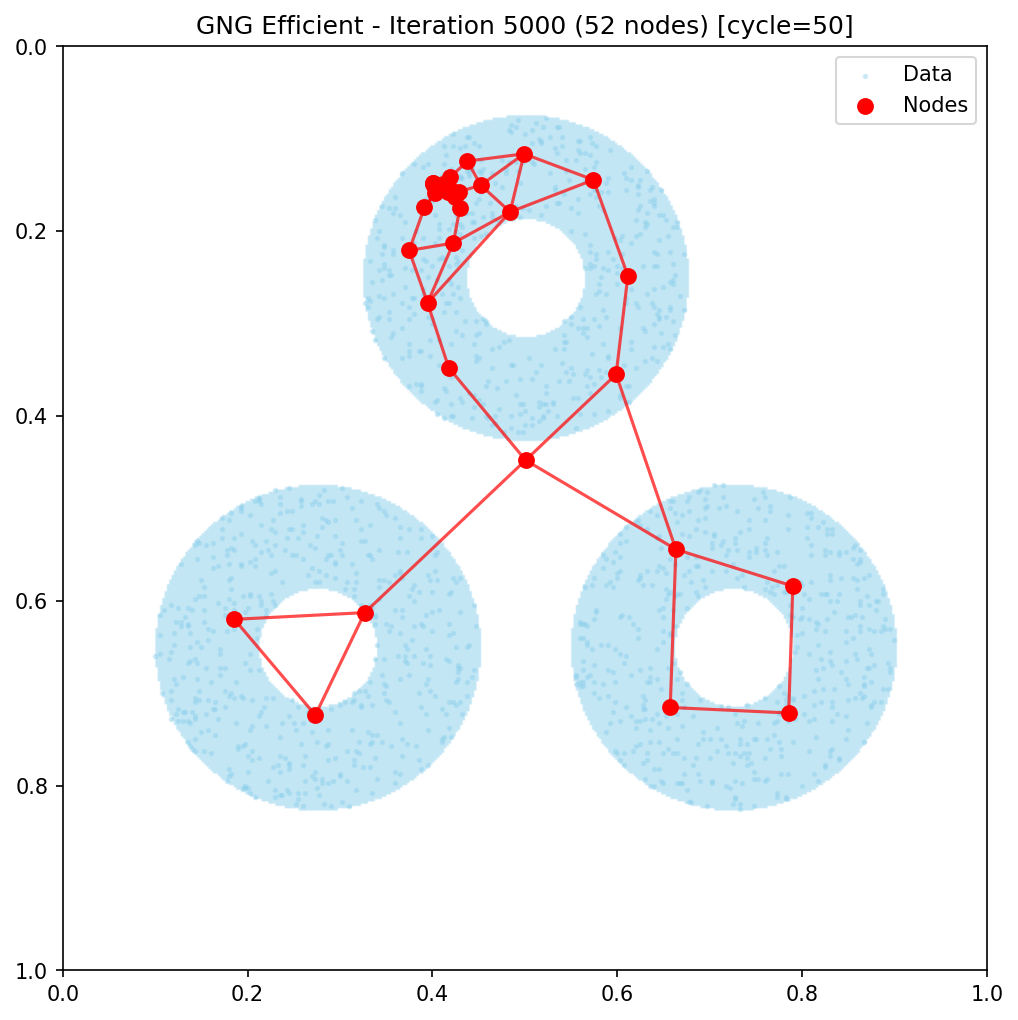
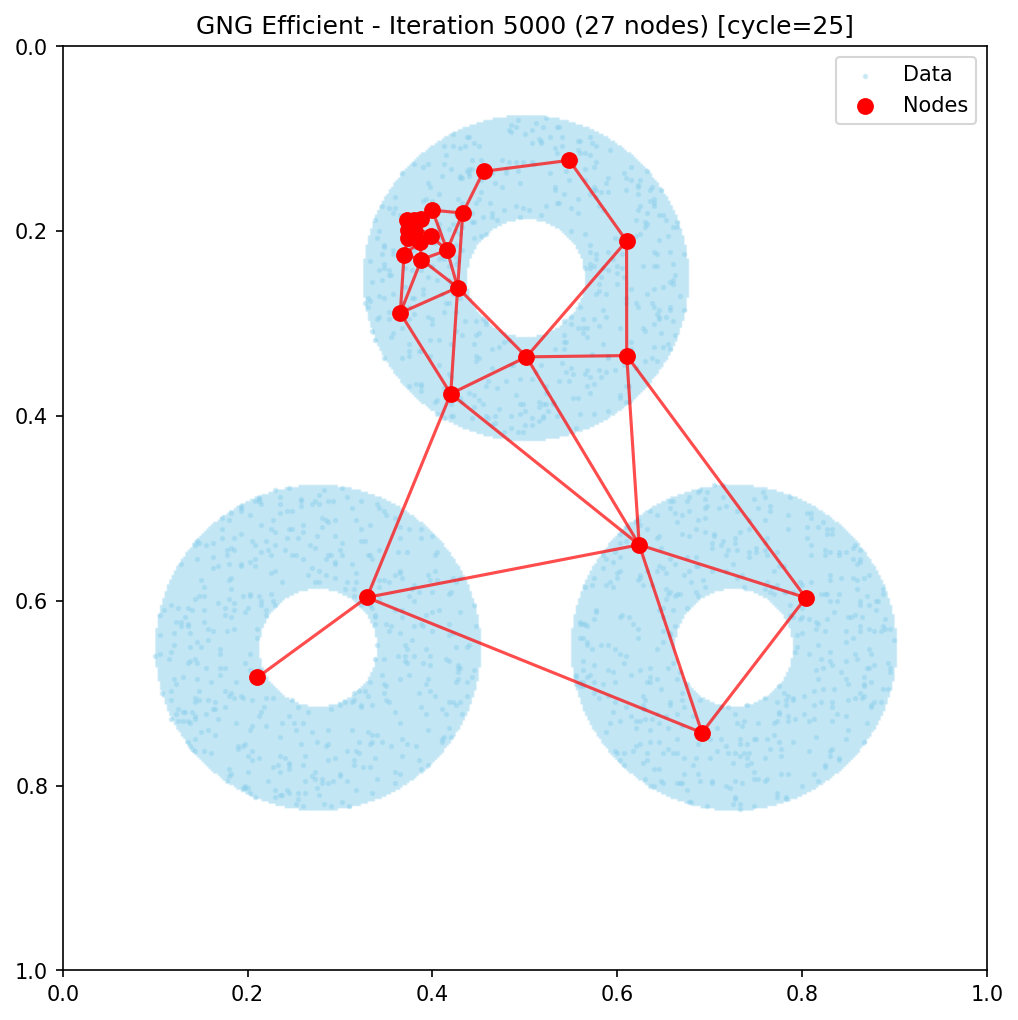
GNG Efficient: βパラメータを論文準拠に修正（重大バグ修正）
【問題】
標準GNGのβ（減衰率、例: 0.005）と論文のβ（減衰係数、例: 0.9995）
の解釈が異なる。論文の式 E = β^(λ-s) * E + v に対して、
β=0.005を使うと β^100 ≈ 0 となりエラーが即座に消滅していた。

【修正】
- テストファイルを論文Table 2のパラメータに更新
  - beta: 0.005 → 0.9995
  - lambda: 100 → 200
  - eps_b: 0.08 → 0.05
  - eps_n: 0.008 → 0.0006
  - alpha: 0.5 → 0.95
  - max_age: 100 → 200
- trackingテストはbeta=0.99（高速追従用）
- model.pyのdocstringにβの解釈の違いを明記

https://claude.ai/code/session_01QdeRWAD6iCgVwVf2t6sSNE

diff --git a/experiments/3d_pointcloud/test_gng_efficient_floor_wall.py b/experiments/3d_pointcloud/test_gng_efficient_floor_wall.py
@@ -117,15 +117,16 @@ def run_experiment(
     points = sample_floor_and_wall(n_samples=n_samples, seed=seed)
     print(f"Sampled {len(points)} points")
 
-    # Setup GNG Efficient with parameters tuned for 3D
+    # Setup GNG Efficient with paper's Table 2 parameters (Fišer et al., 2013)
+    # Note: Paper's beta is a decay FACTOR (close to 1), not a decay RATE (close to 0)
     params = GNGEfficientParams(
         max_nodes=150,
-        lambda_=100,
-        eps_b=0.1,
-        eps_n=0.01,
-        alpha=0.5,
-        beta=0.005,
-        max_age=100,
+        lambda_=200,      # Paper default
+        eps_b=0.05,       # Paper default
+        eps_n=0.0006,     # Paper default
+        alpha=0.95,       # Paper default
+        beta=0.9995,      # Paper default (decay factor, NOT rate!)
+        max_age=200,      # Paper default
         # Optimization parameters
         use_uniform_grid=True,
         use_lazy_error=True,

diff --git a/experiments/2d_visualization/test_gng_efficient_triple_ring.py b/experiments/2d_visualization/test_gng_efficient_triple_ring.py
@@ -96,15 +96,17 @@ def run_experiment(
     print(f"Sampled {len(points)} points")
 
     # Setup GNG Efficient with parameters
-    # Using standard triple ring test parameters
+    # Using paper's Table 2 parameters (Fišer et al., 2013)
+    # Note: Paper's beta is close to 1 (decay factor),
+    # not small like standard GNG (decay rate)
     params = GNGEfficientParams(
         max_nodes=100,
-        lambda_=100,
-        eps_b=0.08,
-        eps_n=0.008,
-        alpha=0.5,
-        beta=0.005,
-        max_age=100,
+        lambda_=200,      # Paper default
+        eps_b=0.05,       # Paper default
+        eps_n=0.0006,     # Paper default
+        alpha=0.95,       # Paper default
+        beta=0.9995,      # Paper default (decay factor, NOT rate!)
+        max_age=200,      # Paper default
         # Optimization parameters
         use_uniform_grid=True,
         use_lazy_error=True,

diff --git a/experiments/2d_visualization/test_gng_efficient_tracking.py b/experiments/2d_visualization/test_gng_efficient_tracking.py
@@ -132,13 +132,16 @@ def run_tracking_experiment(
     orbit_center = np.array(orbit_center)
 
     # Setup GNG Efficient with tracking-optimized parameters
+    # Note: Paper's beta is a decay FACTOR (close to 1), not a decay RATE (close to 0)
+    # For tracking: faster error decay needed, so beta slightly lower than paper default
+    # beta=0.99 over lambda=20 gives: 0.99^20 ≈ 0.82 decay per cycle
     params = GNGEfficientParams(
         max_nodes=50,
         lambda_=20,
         eps_b=0.15,
         eps_n=0.01,
         alpha=0.5,
-        beta=0.01,
+        beta=0.99,        # Paper-style decay factor (NOT rate!)
         max_age=30,
         # Optimization parameters
         use_uniform_grid=True,

diff --git a/algorithms/gng_efficient/python/model.py b/algorithms/gng_efficient/python/model.py
@@ -38,7 +38,11 @@ class GNGEfficientParams:
         eps_b: Learning rate for the winner node.
         eps_n: Learning rate for neighbor nodes.
         alpha: Error decay rate when splitting.
-        beta: Global error decay rate (per step).
+        beta: Error decay FACTOR (close to 1.0, NOT a small rate!).
+              Paper formula: E = beta^(lambda-s) * E + v (Algorithm 4).
+              IMPORTANT: Standard GNG uses beta as a small decay RATE
+              (e.g., 0.005 meaning E *= 0.995), but this paper uses beta
+              as a decay FACTOR close to 1 (e.g., 0.9995). Do NOT confuse!
         max_age: Maximum edge age before removal.
 
     Optimization Parameters:
